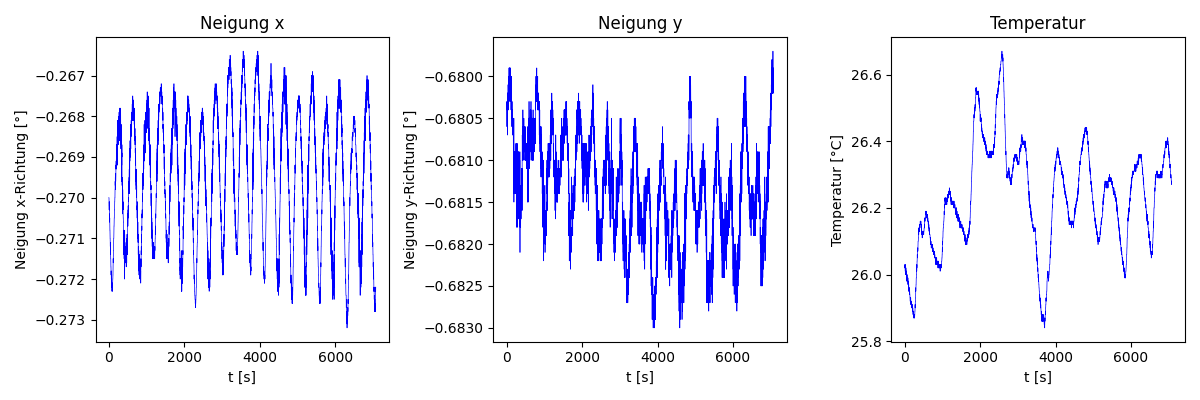
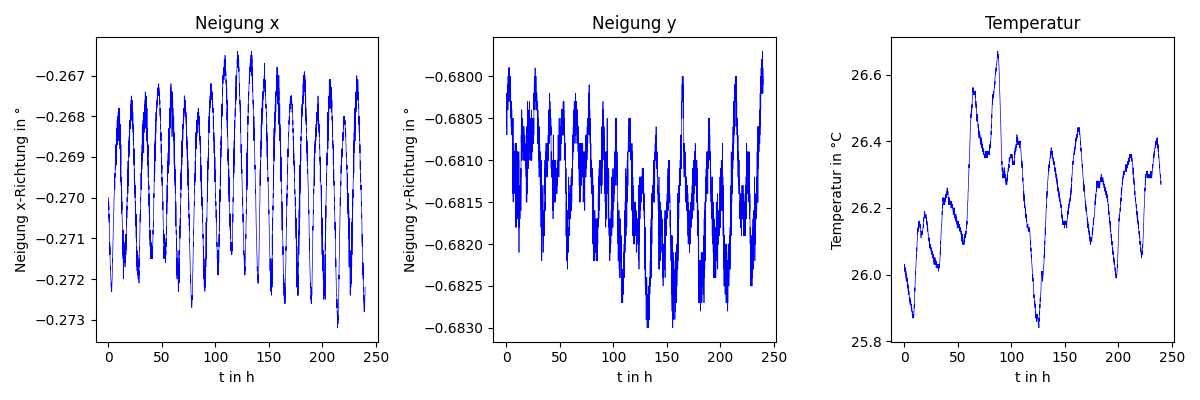
update Achsenbeschriftung (allg.) und x-Achse (1. Plot)

diff --git a/src/plots.py b/src/plots.py
@@ -7,39 +7,41 @@ def plot_neigungsdaten(neigung_zeitreihe):
     Plottet die x-, y- und Temperaturdaten der Neigung
     in drei separaten Plots neben einander.
     """
-    
+                               # / 60s*60min 
+    time = neigung_zeitreihe[:,3]/3600
+
     plt.figure(figsize=(12, 4))
     
     # Neigung x
     plt.subplot(1, 3, 1)
-    plt.plot(neigung_zeitreihe[:, 0], 'b')
+    plt.plot(time,neigung_zeitreihe[:, 0], 'b')
     plt.setp(plt.gca().lines, linewidth=0.5)
     plt.title('Neigung x')
-    plt.xlabel('t [s]')
-    plt.ylabel('Neigung x-Richtung [°]')
+    plt.xlabel('t in h')
+    plt.ylabel('Neigung x-Richtung in °')
 
     # Neigung y
     plt.subplot(1, 3, 2)
-    plt.plot(neigung_zeitreihe[:, 1], 'b')
+    plt.plot(time,neigung_zeitreihe[:, 1], 'b')
     plt.setp(plt.gca().lines, linewidth=0.5)
     plt.title('Neigung y')
-    plt.xlabel('t [s]')
-    plt.ylabel('Neigung y-Richtung [°]')
+    plt.xlabel('t in h')
+    plt.ylabel('Neigung y-Richtung in °')
 
     # Temperatur
     plt.subplot(1, 3, 3)
-    plt.plot(neigung_zeitreihe[:, 2], 'b')
+    plt.plot(time,neigung_zeitreihe[:, 2], 'b')
     plt.setp(plt.gca().lines, linewidth=0.5)
     plt.title('Temperatur')
-    plt.xlabel('t [s]')
-    plt.ylabel('Temperatur [°C]')
+    plt.xlabel('t in h')
+    plt.ylabel('Temperatur in °C')
 
     plt.tight_layout()
     plt.savefig('plots/neigung_zeitreihe.png')
     plt.show()
-    
-    
-    
+
+
+
 def plot_delta_t(timestamps):
     """
     Plottet die Differenzen der Zeitstempel.
@@ -48,36 +50,36 @@ def plot_delta_t(timestamps):
     In grün: delta_t < 120s
     """
     delta_t = np.diff(timestamps)
-    
+
     blau = np.array([timestamps[:-1][delta_t == 120], delta_t[delta_t == 120]]).T
     rot = np.array([timestamps[:-1][delta_t > 120], delta_t[delta_t > 120]]).T
     gruen = np.array([timestamps[:-1][delta_t < 120], delta_t[delta_t < 120]]).T
-    
+
     # plot
     plt.figure(figsize=(12, 4))
     plt.plot(blau[:, 0], blau[:, 1], 'b', label='Δt = 120s', marker='o', markersize=2, ls="")
     plt.plot(rot[:, 0], rot[:, 1], 'r', label='Δt > 120s', marker='o', markersize=2, ls="")
     plt.plot(gruen[:, 0], gruen[:, 1], 'g', label='Δt < 120s', marker='o', markersize=2, ls="")
-    
+
     plt.title('Differenzen der Zeitstempel')
-    plt.xlabel('t [s]')
-    plt.ylabel('Δt [s]')
+    plt.xlabel('t in s')
+    plt.ylabel('Δt in s')
     plt.legend()
     plt.tight_layout()
     plt.savefig('plots/delta_t.png')
     plt.show()
-    
-    
-    
+
+
+
 def plot_autokovarianz(cov_x, cov_y, cov_t):
     """
     Plottet die Autokovarianzen der Neigung x, y und Temperatur
     in drei separaten Plots neben einander.
     """
     time = np.arange(len(cov_x)) * 120 / 3600
-    
+
     plt.figure(figsize=(12, 4))
-    
+
     # Autokovarianz Neigung x
     plt.subplot(1, 3, 1)
     plt.plot(time, cov_x, 'b', marker='o', markersize=0.5, ls="")
@@ -97,23 +99,23 @@ def plot_autokovarianz(cov_x, cov_y, cov_t):
     plt.plot(time, cov_t, 'b', marker='o', markersize=0.5, ls="")
     plt.title('Autokovarianz Temperatur')
     plt.xlabel('Zeitabstand τ in h')
-    plt.ylabel('Autokovarianz')   
-    
+    plt.ylabel('Autokovarianz')
+
     plt.tight_layout()
     plt.savefig('plots/autokovarianz_zeitreihe.png')
     plt.show()
-    
-    
-    
+
+
+
 def plot_autokorrelation(acf_x, acf_y, acf_t):
     """
     Plottet die Autokorrelationsfunktionen der Neigung x, y und Temperatur
     in drei separaten Plots neben einander.
     """
     time = np.arange(len(acf_x)) * 120 / 3600
-    
+
     plt.figure(figsize=(12, 4))
-    
+
     # Autokorrelation Neigung x
     plt.subplot(1, 3, 1)
     plt.plot(time, acf_x, 'b', marker='o', markersize=0.5, ls="")
@@ -133,23 +135,23 @@ def plot_autokorrelation(acf_x, acf_y, acf_t):
     plt.plot(time, acf_t, 'b', marker='o', markersize=0.5, ls="")
     plt.title('Autokorrelation Temperatur')
     plt.xlabel('Zeitabstand τ in h')
-    plt.ylabel('Autokorrelationskoeffizient')   
-    
+    plt.ylabel('Autokorrelationskoeffizient')
+
     plt.tight_layout()
     plt.savefig('plots/autokorrelation_zeitreihe.png')
     plt.show()
-    
-    
-    
+
+
+
 def plot_kreuzkovarianz(crosscov_xy, crosscov_xt, crosscov_yt):
     """
     Plottet die Kreuzkovarianzen der Neigung x, y und Temperatur
     in drei separaten Plots neben einander.
     """
     time = np.arange(len(crosscov_xy)) * 120 / 3600
-    
+
     plt.figure(figsize=(12, 4))
-    
+
     # Kreuzkovarianz Neigung x und y
     plt.subplot(1, 3, 1)
     plt.plot(time, crosscov_xy, 'b', marker='o', markersize=0.5, ls="")
@@ -169,23 +171,23 @@ def plot_kreuzkovarianz(crosscov_xy, crosscov_xt, crosscov_yt):
     plt.plot(time, crosscov_yt, 'b', marker='o', markersize=0.5, ls="")
     plt.title('Kreuzkovarianz Neigung y und Temperatur')
     plt.xlabel('Zeitabstand τ in h')
-    plt.ylabel('Kreuzkovarianz')   
-    
+    plt.ylabel('Kreuzkovarianz')
+
     plt.tight_layout()
     plt.savefig('plots/kreuzkovarianz_zeitreihe.png')
     plt.show()
-    
-    
-    
+
+
+
 def plot_kreuzkorrelation(crosscorr_xy, crosscorr_xt, crosscorr_yt):
     """
     Plottet die Kreuzkorrelationsfunktionen der Neigung x, y und Temperatur
     in drei separaten Plots neben einander.
     """
     time = np.arange(len(crosscorr_xy)) * 120 / 3600
-    
+
     plt.figure(figsize=(12, 4))
-    
+
     # Kreuzkorrelation Neigung x und y
     plt.subplot(1, 3, 1)
     plt.plot(time, crosscorr_xy, 'b', marker='o', markersize=0.5, ls="")
@@ -205,8 +207,8 @@ def plot_kreuzkorrelation(crosscorr_xy, crosscorr_xt, crosscorr_yt):
     plt.plot(time, crosscorr_yt, 'b', marker='o', markersize=0.5, ls="")
     plt.title('Kreuzkorrelation Neigung y und Temperatur')
     plt.xlabel('Zeitabstand τ in h')
-    plt.ylabel('Kreuzkorrelationskoeffizient')   
-    
+    plt.ylabel('Kreuzkorrelationskoeffizient')
+
     plt.tight_layout()
     plt.savefig('plots/kreuzkorrelation_zeitreihe.png')
     plt.show()

diff --git a/src/main.py b/src/main.py
@@ -121,7 +121,7 @@ if __name__ == "__main__":
     ### AUFGABE 0 ####################################################################################
     """Laden und Darstellen der Messwerte"""
     # Laden der Messwerte
-    mat_contents = scipy.io.loadmat('../data/Neigung.mat')
+    mat_contents = scipy.io.loadmat('data/Neigung.mat')
     # Neigung-x, Neigung-y, Temperatur, Zeit in s || Abtastinterval: 120s
     neigung_zeitreihe = np.array(mat_contents['N'])
     neigung_x = neigung_zeitreihe[:, 0]
@@ -209,14 +209,12 @@ if __name__ == "__main__":
     # Folie 36 aus Zeitreihenanalyse Teil 2
     lds_x = leistungsdichtespektrum(lag,dT,acf_x)
     lds_y = leistungsdichtespektrum(lag,dT,acf_y)
-    lds_t = leistungsdichtespektrum(lag,dT,acf_t)
     test = dft(acf_x)
     plt.plot(lds_x)
     plt.show()
 
     ampl_spektrum_x = amplitudenspektrum(lag, dT, lds_x)
     ampl_spektrum_y = amplitudenspektrum(lag, dT, lds_y)
-    ampl_spektrum_t = amplitudenspektrum(lag, dT, lds_t)
 
     plt.plot(ampl_spektrum_x)
     plt.show()
